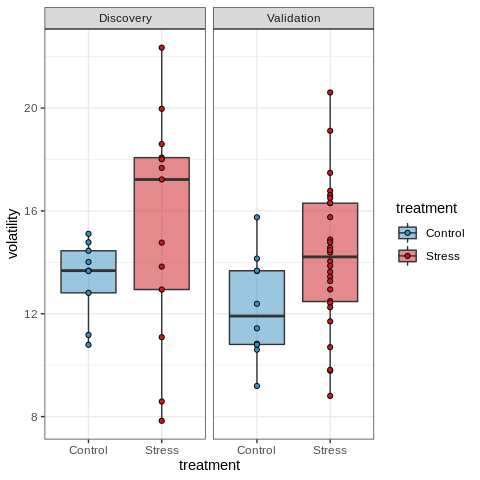
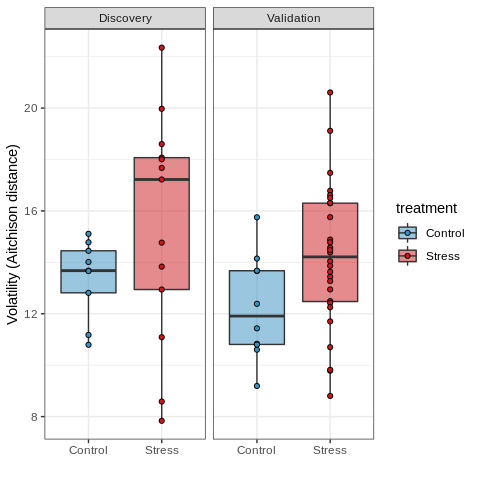
improved readme

Changed region(s): [[0.0, 0.3125, 0.0625, 0.6875], [0.375, 0.9375, 0.5, 1.0]]

diff --git a/README.md b/README.md
@@ -34,10 +34,10 @@ there.
 #devtools::install_github("thomazbastiaanssen/volatility")
 library(volatility)
 
-#load tidyverse to wrangle and plot results
+#load tidyverse to wrangle and plot results.
 library(tidyverse)
 
-#load example data + metadata from the volatility study study
+#load example data + metadata from the volatility study.
 data(volatility_data)
 ```
 
@@ -85,7 +85,23 @@ head(vola_metadata)
 
 ``` r
 vola_out <- volatility(counts = vola_genus_table, metadata = vola_metadata$ID)
+
+head(vola_out)
 ```
+
+    ##   ID volatility
+    ## 1  1  14.146575
+    ## 2 10  15.753087
+    ## 3 11  16.299301
+    ## 4 13  16.311881
+    ## 5 14   8.803906
+    ## 6 15   9.784708
+
+The output of the main `volatility` function is a data.frame with two
+columns. `ID` corresponds to the pairs of samples passed on in the
+`metadata` argument, whereas `volatility` shows the measured volatility
+between those samples in terms of Aitchison distance (Euclidean distance
+of CLR-transformed counts).
 
 ## Plot the results
 
@@ -106,7 +122,9 @@ vola_out %>%
   
   #Tweak appearance 
   scale_fill_manual(values = c("Control" = "#3690c0", "Stress"  = "#cb181d")) +
-  theme_bw() 
+  theme_bw() +
+  xlab("") +
+  ylab("Volatility (Aitchison distance)")
 ```
 
 ![](README_files/figure-gfm/plot_volatility-1.png)<!-- -->
